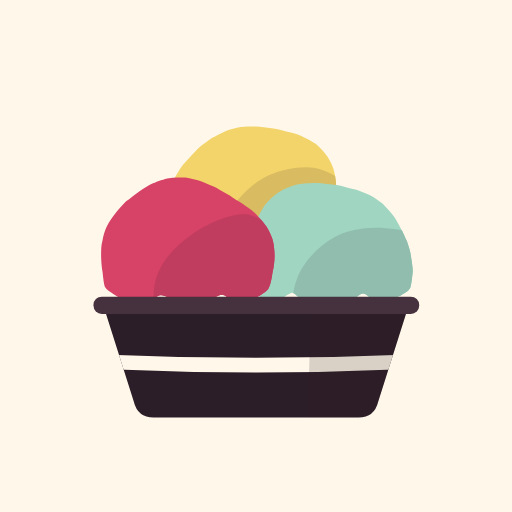
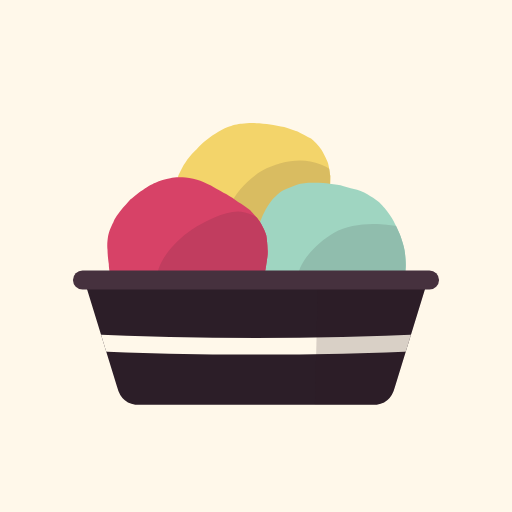
Seat the scoops inside the tub and stop cabinet scoops being cropped
- Hero, social card, mark and favicon: scoops sit lower, inside the rim,
  with the tub's front hiding their bases; the hero and social card also
  get the tub's inside wall behind them
- Result-card and summary cups: the tub spans the frame and every scoop
  stays inside the rim, with the front two touching
- Cabinet cards: the family scoop sits whole in the top-right corner
  instead of being clipped by the card edge

Claude-Session: https://claude.ai/code/session_01BZHLsKfFv2kmBzxS8x5Cp2

diff --git a/styles.css b/styles.css
@@ -338,18 +338,18 @@ select option, select optgroup { color: #191117; background: #fff; }
 .summary-stack::after {
   position: absolute;
   z-index: 4;
-  left: 3px;
-  right: 3px;
+  left: 0;
+  right: 0;
   bottom: 0;
-  height: 22px;
+  height: 24px;
   background: url("art/tub-light.svg") center / contain no-repeat;
   content: "";
 }
-.summary-stack span { position: absolute; top: 19px; width: 38px; height: 38px; }
-.summary-stack span:nth-child(1) { z-index: 3; left: 2px; }
-.summary-stack span:nth-child(2) { z-index: 2; right: 2px; }
-.summary-stack span:nth-child(3) { z-index: 1; top: 4px; left: 17px; }
-.summary-stack.two span { top: 16px; width: 42px; height: 42px; }
+.summary-stack span { position: absolute; top: 21px; width: 36px; height: 36px; }
+.summary-stack span:nth-child(1) { z-index: 3; left: 3px; }
+.summary-stack span:nth-child(2) { z-index: 2; right: 3px; }
+.summary-stack span:nth-child(3) { z-index: 1; top: 8px; left: 18px; }
+.summary-stack.two span { top: 19px; width: 38px; height: 38px; }
 .summary-stack.two span:nth-child(1) { left: 0; }
 .summary-stack.two span:nth-child(2) { right: 0; }
 /* One drawn scoop per flavour family; the inclusions tell families apart without relying on colour. */
@@ -431,20 +431,21 @@ select option, select optgroup { color: #191117; background: #fff; }
 .cup-visual::after {
   position: absolute;
   z-index: 4;
-  left: 20px;
-  right: 20px;
-  bottom: 6px;
-  height: 23px;
+  left: 6px;
+  right: 6px;
+  bottom: 1px;
+  height: 33px;
   background: url("art/tub.svg") center / contain no-repeat;
   content: "";
 }
-.cup-scoop { position: absolute; top: 24px; width: 48px; height: 48px; }
-.cup-scoop:nth-child(1) { z-index: 3; left: 9px; }
-.cup-scoop:nth-child(2) { z-index: 2; right: 9px; }
-.cup-scoop:nth-child(3) { z-index: 1; top: 6px; left: 31px; }
-.cup-visual.two .cup-scoop { top: 18px; width: 56px; height: 56px; }
-.cup-visual.two .cup-scoop:nth-child(1) { left: 6px; }
-.cup-visual.two .cup-scoop:nth-child(2) { right: 6px; }
+/* Each scoop image is a 100-unit square with the scoop centred, r = 42; placements keep every scoop inside the rim. */
+.cup-scoop { position: absolute; top: 21px; width: 48px; height: 48px; }
+.cup-scoop:nth-child(1) { z-index: 3; left: 11px; }
+.cup-scoop:nth-child(2) { z-index: 2; right: 11px; }
+.cup-scoop:nth-child(3) { z-index: 1; top: 5px; left: 31px; }
+.cup-visual.two .cup-scoop { top: 18px; width: 52px; height: 52px; }
+.cup-visual.two .cup-scoop:nth-child(1) { left: 8px; }
+.cup-visual.two .cup-scoop:nth-child(2) { right: 8px; }
 .recommendation-rank { margin: 0 0 3px; color: var(--rose-dark); font-size: 0.65rem; font-weight: 900; letter-spacing: 0.11em; text-transform: uppercase; }
 .recommendation-card h4 { margin: 0; font-family: var(--serif); font-size: 1.2rem; line-height: 1.14; }
 .recommendation-card .reason { margin: 5px 0 0; color: var(--ink-soft); font-size: 0.82rem; }
@@ -535,10 +536,10 @@ select option, select optgroup { color: #191117; background: #fff; }
 .flavour-border-bakery { --card-colour: #c68e6c; }
 .flavour-card::after {
   position: absolute;
-  top: -34px;
-  right: -30px;
-  width: 112px;
-  height: 112px;
+  top: 4px;
+  right: 6px;
+  width: 86px;
+  height: 86px;
   background: url("art/scoop-bright.svg") center / contain no-repeat;
   content: "";
 }
@@ -547,7 +548,7 @@ select option, select optgroup { color: #191117; background: #fff; }
 .flavour-border-nut::after { background-image: url("art/scoop-nut.svg"); }
 .flavour-border-custard::after { background-image: url("art/scoop-custard.svg"); }
 .flavour-border-bakery::after { background-image: url("art/scoop-bakery.svg"); }
-.flavour-badges { position: relative; z-index: 2; display: flex; flex-wrap: wrap; gap: 5px; padding-right: 48px; }
+.flavour-badges { position: relative; z-index: 2; display: flex; flex-wrap: wrap; gap: 5px; padding-right: 84px; }
 .flavour-badge { padding: 4px 7px; border-radius: 999px; color: var(--ink-soft); background: rgba(44, 30, 40, 0.06); font-size: 0.6rem; font-weight: 900; letter-spacing: 0.07em; text-transform: uppercase; }
 .flavour-badge.special { color: #fff; background: var(--rose-dark); }
 .flavour-card h3 { align-self: end; margin: 34px 0 8px; padding-right: 20px; font-family: var(--serif); font-size: 1.42rem; line-height: 1.04; }

diff --git a/index.html b/index.html
@@ -19,7 +19,7 @@
   <link rel="icon" type="image/svg+xml" href="favicon.svg">
   <link rel="apple-touch-icon" href="apple-touch-icon.png">
   <link rel="manifest" href="manifest.webmanifest">
-  <link rel="stylesheet" href="styles.css?v=4">
+  <link rel="stylesheet" href="styles.css?v=5">
   <script src="app.js?v=3" defer></script>
 </head>
 <body>

diff --git a/scripts/draw_art.py b/scripts/draw_art.py
@@ -223,6 +223,13 @@ def tub(dr, cx, top, wt, wb, h, light=False, shadow=None):
     return out
 
 
+def tub_back(cx, top, wt, h, light=False):
+    """The far inside wall of the tub, drawn behind the scoops."""
+    fill = "#e8d9bf" if light else "#1d1219"
+    L = cx - wt / 2 - wt * 0.02
+    return f'<rect x="{n(L)}" y="{n(top - h * 0.13)}" width="{n(wt * 1.04)}" height="{n(h * 0.2)}" rx="{n(h * 0.1)}" fill="{fill}"/>'
+
+
 def flag(px, py, tx, ty, text, side, fill=PAPER, pick=INK, size=17):
     """A toothpick flag pushed into a scoop at (px, py)."""
     w = len(text) * size * 0.5 + size * 1.3
@@ -253,26 +260,29 @@ def filters(dr):
 def cup_of_three(dr, light_tub=False, flags=True):
     """Anchor, bridge and lift in a tub - the hero and social-card drawing (500 x 500 units)."""
     filters(dr)
+    top, wt, wb, h = 330, 340, 262, 140
+    # Scoops sit low enough that the tub's front hides their bases, and stay inside the rim.
     scoops = "".join(scoop(dr, cx, cy, r, c, sd, kind, shadow="soft") for cx, cy, r, c, sd, kind in [
-        (254, 206, 94, LEMON, 5, "zest"),
-        (334, 300, 92, PIST, 8, "shards"),
-        (172, 298, 98, ROSE, 3, "seeds"),
+        (250, 218, 88, LEMON, 5, "zest"),
+        (330, 302, 84, PIST, 8, "shards"),
+        (172, 300, 88, ROSE, 3, "seeds"),
     ])
-    pot = tub(dr, 252, 348, 318, 250, 128, light=light_tub, shadow="soft")
-    out = f'<g filter="url(#grain)">{scoops}{"" if light_tub else pot}</g>' + (pot if light_tub else "")
+    back = tub_back(250, top, wt, h, light=light_tub)
+    pot = tub(dr, 250, top, wt, wb, h, light=light_tub, shadow="soft")
+    out = f'<g filter="url(#grain)">{back}{scoops}{"" if light_tub else pot}</g>' + (pot if light_tub else "")
     if flags:
         fill, pick = (LEMON, CREAM) if light_tub else (PAPER, INK)
-        out += flag(270, 140, 296, 48, "lift", 1, fill, pick)
-        out += flag(140, 244, 104, 150, "anchor", -1, fill, pick)
-        out += flag(372, 244, 404, 160, "bridge", 1, fill, pick)
+        out += flag(262, 156, 292, 52, "lift", 1, fill, pick)
+        out += flag(146, 262, 104, 164, "anchor", -1, fill, pick)
+        out += flag(356, 262, 400, 172, "bridge", 1, fill, pick)
     return out
 
 
 def mark_body(dr):
     """The three-scoop tub at 64 x 64 units."""
     out = "".join(scoop(dr, cx, cy, r, c, sd, "none", detail=1) for cx, cy, r, c, sd in [
-        (32, 22.5, 13, LEMON, 5), (43, 31.5, 13, MINT, 8), (21, 31.5, 13.5, ROSE, 3)])
-    return out + tub(dr, 32, 38, 48, 37, 18)
+        (32, 21, 12, LEMON, 5), (43, 30.5, 12, MINT, 8), (21, 30.5, 12.5, ROSE, 3)])
+    return out + tub(dr, 32, 34, 54, 42, 20)
 
 
 # ---------------------------------------------------------------- files
